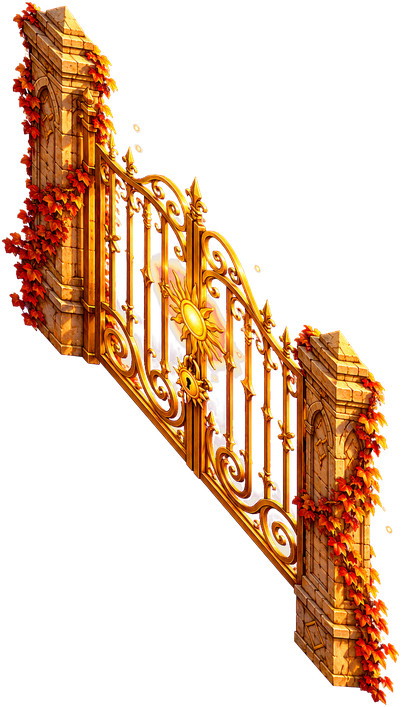
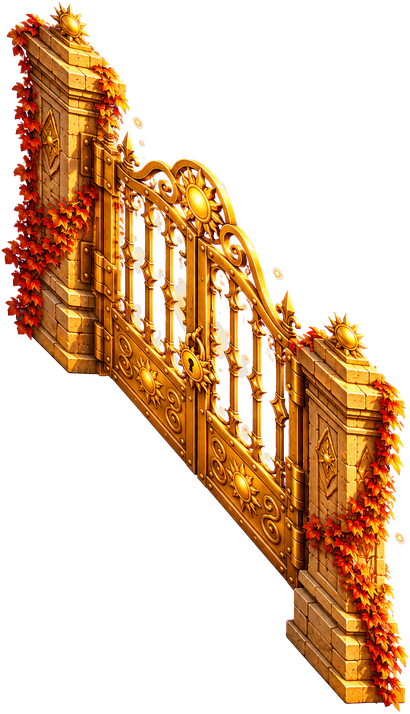
Sun Gate: the fuller gate (deep pillars with sun finials, thick riveted doors, an arch with the sun) in place, closed and open
Claude-Session: https://claude.ai/code/session_01L1uDDec2PRhRRuGiNU2YTw

diff --git a/src/world/SunGate.ts b/src/world/SunGate.ts
@@ -8,7 +8,7 @@ import { WORLD_OBJECTS, type Pt, type WorldObject } from './WorldGeometry';
  *  of a part of it is drawn over that part), its posts and doors solid. */
 const COLS = 12;
 const THICK = 16;    // half the width of the closed doors' footprint (world px)
-const POST = 26;     // half the size of a pillar's footprint
+const POST = 34;     // half the size of a pillar's footprint
 
 export const SUN_GATE = GATE as { img: { closed: string; open: string }; x: number; y: number; w: number; h: number; back: [number, number]; front: [number, number] };
 /** The gate line's x at depth y (its foot line, extended). */
